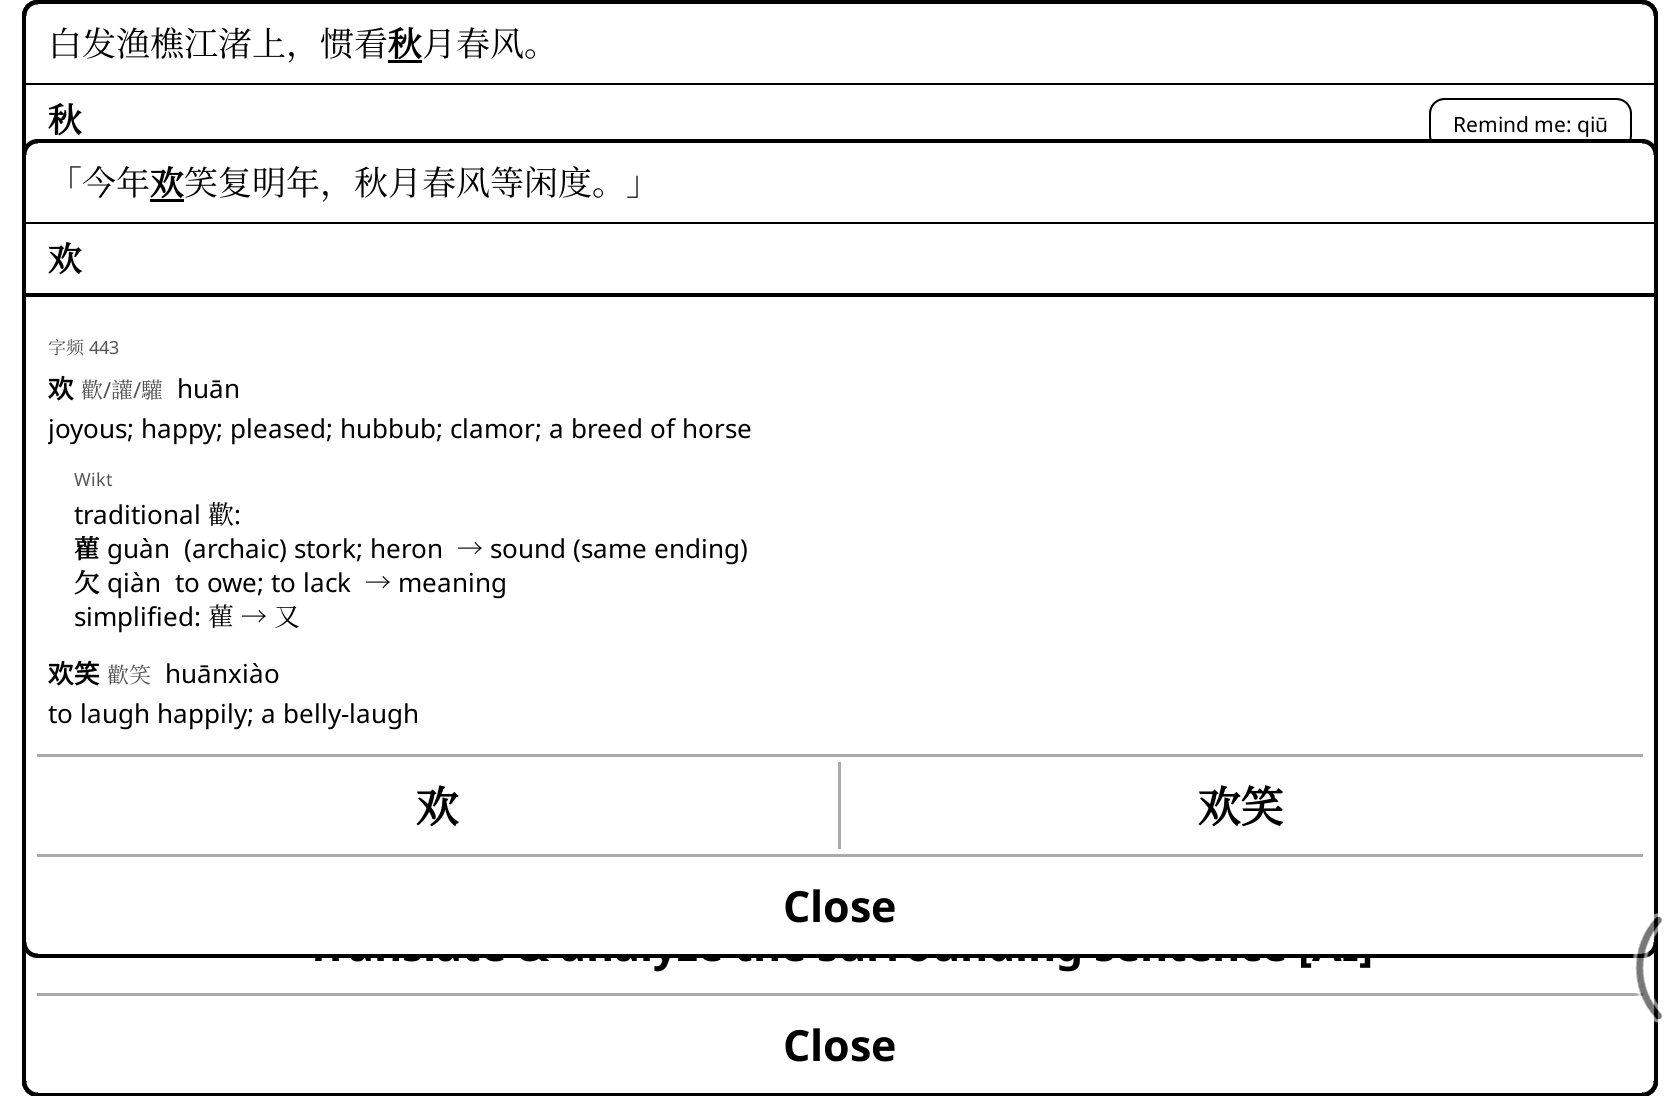
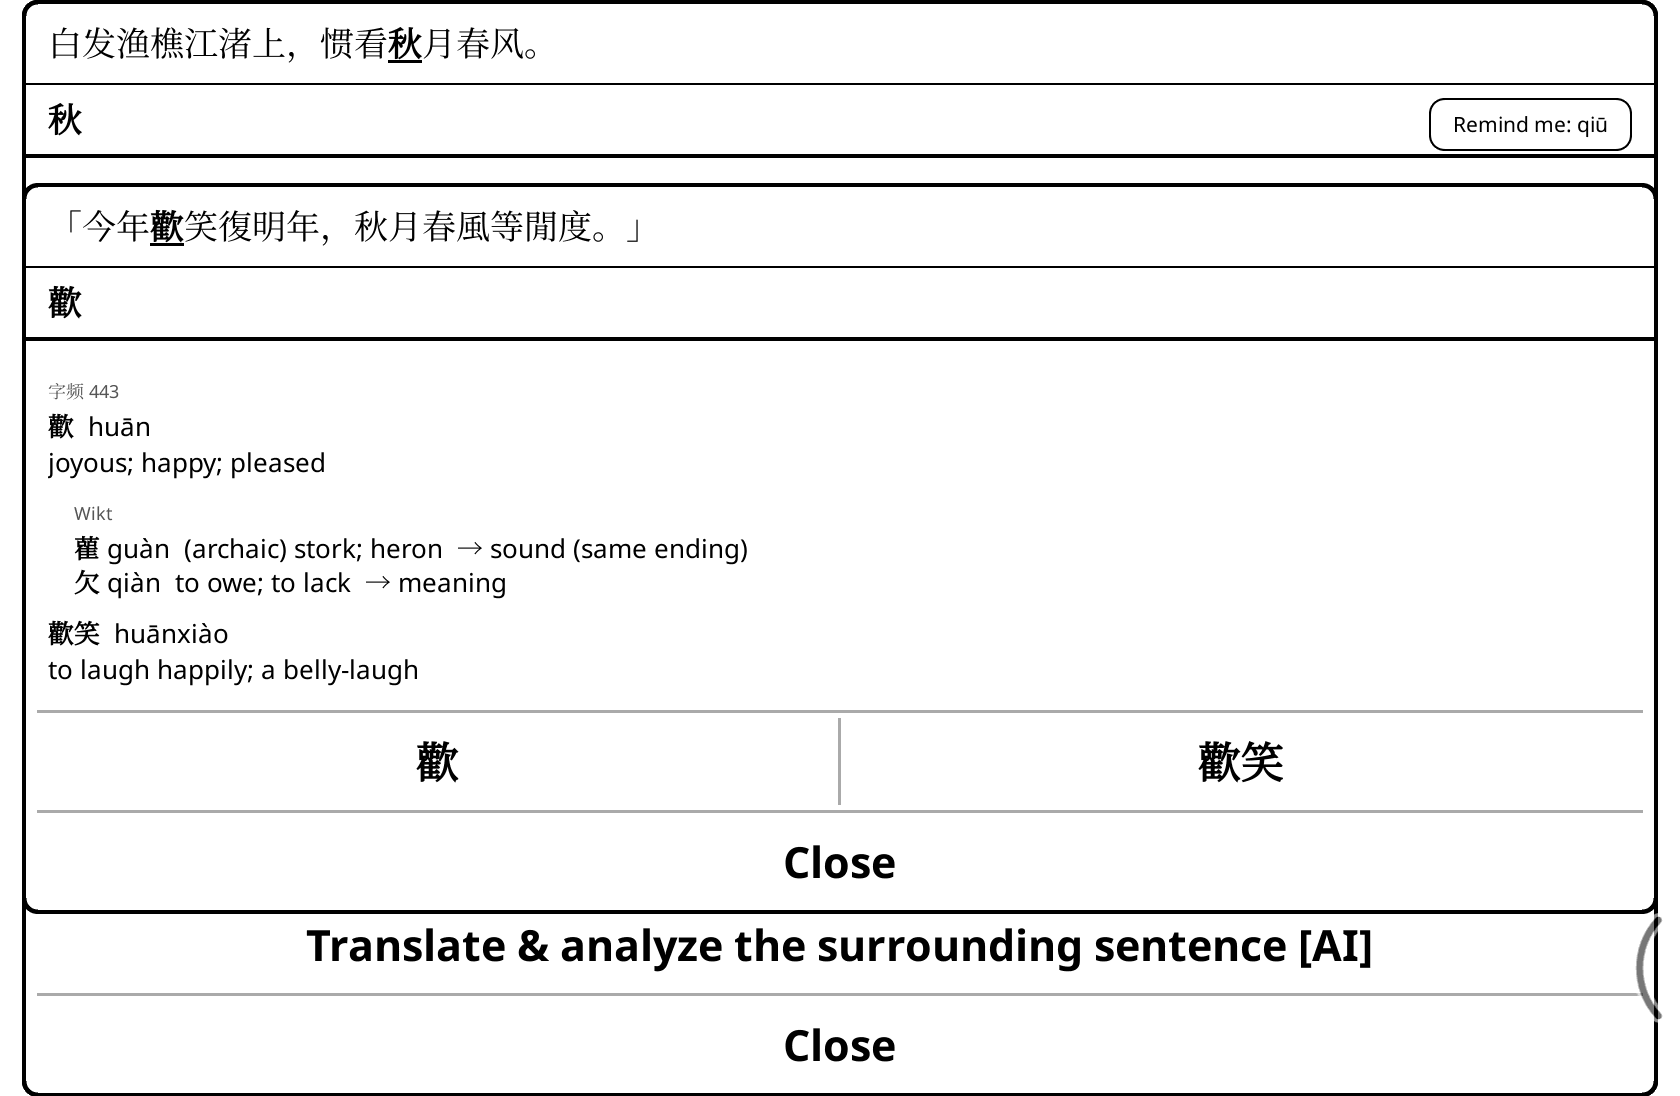
Retake labels and nested shots with MOE's own text; SHOT_TEXT and SHOT_MOE check switches (#48)

diff --git a/tools/make_screenshots.py b/tools/make_screenshots.py
@@ -13,7 +13,9 @@ a default run: the AI's answer varies, so it can't be gated like the others.
 For checks, not the README: SHOT_FONT="STKaiti" uses another book font (taps
 must still land: the device log is checked as usual), SHOT_MATCH_FONT=false
 turns "Try to match the book's font" off, SHOT_TRAD=false turns "Show
-traditional forms" off, SHOT_NIGHT=true takes the shots in night mode, and SHOT_OUT=dir saves there
+traditional forms" off, SHOT_TEXT=simplified sets "Dictionary text" to
+Simplified, SHOT_MOE=always shows MOE Always for characters and words,
+SHOT_NIGHT=true takes the shots in night mode, and SHOT_OUT=dir saves there
 instead of docs/.
 
 Needs the optional dictionaries (CBDB, MOE, 成語典, Xinhua, Moegirlpedia) in
@@ -63,6 +65,11 @@ WORK = os.path.join(ROOT, "build", "screenshots")
 BACKUP = os.path.join(WORK, "settings.reader.lua.backup")
 DOCS = os.environ.get("SHOT_OUT") or os.path.join(ROOT, "docs")
 THRESHOLD = 3500
+# Settings for checks (see above); the gate takes the same.
+SHOT_TEXT = "simplified" if os.environ.get("SHOT_TEXT") == "simplified" else "original"
+SHOT_MOE = "always" if os.environ.get("SHOT_MOE") == "always" else "fallback"
+# MOE's text in the shots, as the Dictionary text setting gives it (#48).
+MOE_QUOTE = "「今年歡笑復明年，秋月春風等閒度。」" if SHOT_TEXT == "original" else "「今年欢笑复明年，秋月春风等闲度。」"
 
 READER = {   # the sidecar's reader settings
     "copt_font_size": 20, "copt_line_spacing": 100, "copt_h_page_margins": "{ [1] = 50, [2] = 50 }",
@@ -156,13 +163,15 @@ SHOTS = {
         "**之乎者也**  zhīhūzhěyě", "[新华] 这四个字都是文言虚词"]), ("出处", None, (1440, 890), [])],
         frames=[(1, (105, 1158)), (2, (20, 700))]),
     "labels": dict(page="sg1", taps=[("秋", 1, (775, 665), [
-        "**秋** 秋/鞦  qiū", "[MMAH]", "  [國語辭典]\n  **秋月春风**", "**秋月春风** 秋月春風  qiū yuè chūn fēng", "[Wikt]", "**秋月**  qiūyuè"])],
+        "**秋** 秋/鞦  qiū", "[MMAH]", "  [國語辭典]\n  **秋月春风**", "**秋月春风** 秋月春風  qiū yuè chūn fēng", MOE_QUOTE, "[Wikt]", "**秋月**  qiūyuè"])],
         frames=[(1, (83, 1179))]),
-    # A character of the popup's own text: 欢, inside MOE's quotation of 〈琵琶行〉,
-    # opens its popup on top; the context line is the quotation (the device's
-    # log must give it as the sentence), the 欢 below underlined.
-    "nested": dict(page="sg1", taps=[("秋", 1, (775, 665), ["  [國語辭典]\n  **秋月春风** 秋月春風  qiū yuè chūn fēng"]),
-                                     ("欢", "nested", (1322, 772), ["「今年欢笑复明年，秋月春风等闲度。」"])],
+    # A character of the popup's own text: 歡, inside MOE's quotation of 〈琵琶行〉
+    # (MOE's own characters, #48), opens its popup on top; the context line is
+    # the quotation (the device's log must give it as the sentence), the 歡
+    # below underlined.
+    "nested": dict(page="sg1", taps=[("秋", 1, (775, 665), ["  [國語辭典]\n  **秋月春风** 秋月春風  qiū yuè chūn fēng",
+                                                            MOE_QUOTE]),
+                                     (MOE_QUOTE[3], "nested", (1322, 772), [MOE_QUOTE])],
                    frames=[(2, (83, 1179))]),
     "translate": dict(page="kyj13", taps=[("窃", 1, (1465, 995), ["**窃** 竊  qiè"])],
         frames=[(1, (15, 1166))]),
@@ -269,13 +278,13 @@ def settings_variant(original, pinyin=True, threshold=None):
             "chinesehelper_popup_enabled": "true", "chinesehelper_popup_text_pct": 60,
             "chinesehelper_chinese_text_pct": 130, "chinesehelper_char_rank": "true",
             "chinesehelper_rank_source": '"bundled"',   # the gate's ranks, whatever the reader picked
-            "chinesehelper_labels": '"fallback"', "chinesehelper_moe_chars": '"fallback"', "chinesehelper_moe_words": '"fallback"',
+            "chinesehelper_labels": '"fallback"', "chinesehelper_moe_chars": f'"{SHOT_MOE}"', "chinesehelper_moe_words": f'"{SHOT_MOE}"',
             "chinesehelper_uncertain": '"both"',
             "chinesehelper_components": "true", "chinesehelper_popup_context": "true",
             "chinesehelper_page_underline": "true",
             "chinesehelper_match_book_font": "false" if os.environ.get("SHOT_MATCH_FONT") == "false" else "true",
             "chinesehelper_trad_heads": "false" if os.environ.get("SHOT_TRAD") == "false" else "true",
-            "chinesehelper_dict_text": '"original"',   # the gate's (the default, #48)
+            "chinesehelper_dict_text": f'"{SHOT_TEXT}"',   # the gate's (the default, #48)
             "night_mode": "true" if os.environ.get("SHOT_NIGHT") == "true" else "false",
             "autowarmth_control_nightmode": "false",
             "debug": "true"}
@@ -519,6 +528,8 @@ def main():
         sys.exit(f"unknown shots {unknown}; known: {' '.join(SHOTS)}")
     os.makedirs(WORK, exist_ok=True)
     gate = Gate()
+    defaults = gate.lua.eval('require("ch_settings").DEFAULTS')   # what the gate's settings read
+    defaults["dict_text"], defaults["moe_chars"], defaults["moe_words"] = SHOT_TEXT, SHOT_MOE, SHOT_MOE
     print(f"gate sources: {gate.sources}")
     for name in wanted:   # the whole gate first: no device work if any shot fails it
         gate_shot(gate, name, SHOTS[name])
